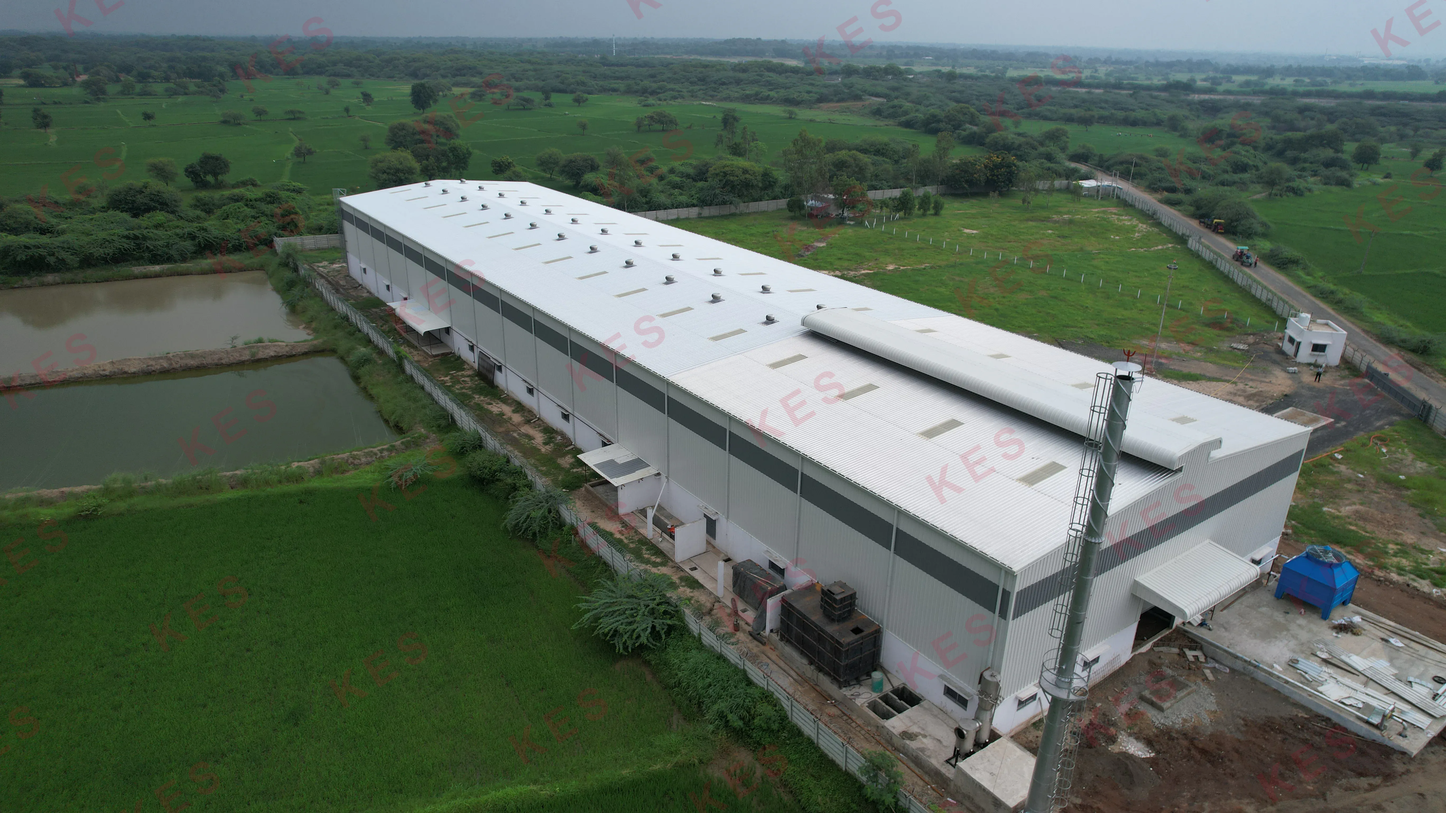
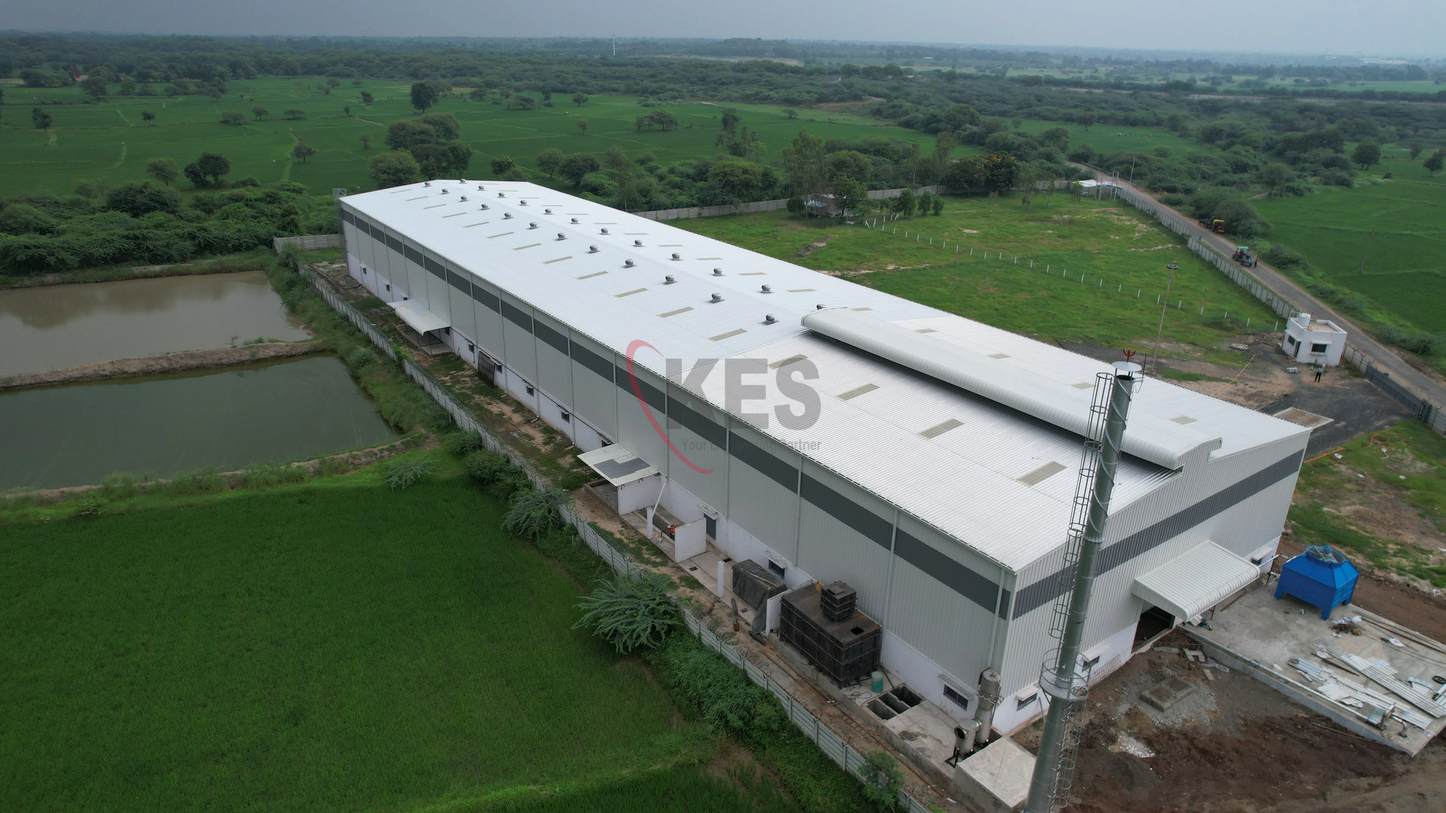
Add watermark image

diff --git a/services/service.js b/services/service.js
@@ -9,58 +9,47 @@ const __dirname = path.dirname(__filename);
 /** Project root (one level above /services) */
 const ROOT = path.resolve(__dirname, "..");
 const PROJECTS_DIR = path.join(ROOT, "public", "images", "projects");
+const LOGO_PATH = path.join(ROOT, "public", "kes_logo-transparent.png");
 
 const IMAGE_EXTENSIONS = new Set([".jpg", ".jpeg", ".png", ".webp", ".avif", ".tiff"]);
 
 /**
- * Build an SVG overlay with repeating diagonal "KES" watermarks.
+ * Prepare centered KES logo overlay for compositing.
  * @param {number} width
  * @param {number} height
- * @param {{ text?: string, opacity?: number }} [options]
+ * @param {{ logoPath?: string, opacity?: number, scale?: number }} [options]
  */
-function createWatermarkSvg(width, height, options = {}) {
-  const text = options.text ?? "KES";
-  const opacity = options.opacity ?? 0.12;
-  const fontSize = Math.max(22, Math.round(Math.min(width, height) * 0.055));
+async function createLogoWatermark(width, height, options = {}) {
+  const logoPath = options.logoPath ?? LOGO_PATH;
+  const opacity = options.opacity ?? 0.28;
+  const scale = options.scale ?? 0.32;
 
-  // Spacing between repeated marks (in rotated space)
-  const stepX = Math.round(fontSize * 5.5);
-  const stepY = Math.round(fontSize * 3.2);
+  const targetWidth = Math.max(120, Math.round(Math.min(width, height) * scale));
+  const alpha = Math.round(opacity * 255);
 
-  // Cover the full image after rotation — expand bounds so corners aren't empty
-  const diagonal = Math.ceil(Math.hypot(width, height));
-  const start = -diagonal;
-  const end = diagonal;
+  const logoBuffer = await sharp(logoPath)
+    .resize({ width: targetWidth, withoutEnlargement: false })
+    .ensureAlpha()
+    .composite([
+      {
+        input: Buffer.from([0, 0, 0, alpha]),
+        raw: { width: 1, height: 1, channels: 4 },
+        tile: true,
+        blend: "dest-in",
+      },
+    ])
+    .png()
+    .toBuffer();
 
-  const marks = [];
-  let row = 0;
-  for (let y = start; y <= end; y += stepY) {
-    const offsetX = row % 2 === 0 ? 0 : stepX / 2; // stagger alternate rows
-    for (let x = start + offsetX; x <= end; x += stepX) {
-      marks.push(
-        `<text class="wm" x="${x}" y="${y}" text-anchor="middle" dominant-baseline="middle">${text}</text>`
-      );
-    }
-    row += 1;
-  }
+  const logoMeta = await sharp(logoBuffer).metadata();
+  const logoWidth = logoMeta.width ?? targetWidth;
+  const logoHeight = logoMeta.height ?? targetWidth;
 
-  return Buffer.from(`
-    <svg width="${width}" height="${height}" xmlns="http://www.w3.org/2000/svg">
-      <style>
-        .wm {
-          fill: #C8102E;
-          fill-opacity: ${opacity};
-          font-family: Arial, Helvetica, sans-serif;
-          font-size: ${fontSize}px;
-          font-weight: 800;
-          letter-spacing: 0.18em;
-        }
-      </style>
-      <g transform="translate(${width / 2}, ${height / 2}) rotate(-32)">
-        ${marks.join("\n        ")}
-      </g>
-    </svg>
-  `);
+  return {
+    input: logoBuffer,
+    left: Math.round((width - logoWidth) / 2),
+    top: Math.round((height - logoHeight) / 2),
+  };
 }
 
 /**
@@ -81,8 +70,9 @@ function withWmkSuffix(inputPath) {
  * @param {string} inputPath Absolute or relative path to the image
  * @param {{
  *   outputPath?: string,
- *   text?: string,
+ *   logoPath?: string,
  *   opacity?: number,
+ *   scale?: number,
  * }} [options]
  * @returns {Promise<{ input: string, output: string, width: number, height: number }>}
  */
@@ -101,16 +91,16 @@ export async function watermarkImage(inputPath, options = {}) {
     throw new Error(`Could not read dimensions for: ${resolvedInput}`);
   }
 
-  const watermark = createWatermarkSvg(width, height, {
-    text: options.text,
+  const logoOverlay = await createLogoWatermark(width, height, {
+    logoPath: options.logoPath,
     opacity: options.opacity,
+    scale: options.scale,
   });
 
   // Same resolution — only re-encode smarter (strip metadata, higher effort).
-  // Metadata is dropped by default in sharp output, which also shrinks files.
   const pipeline = sharp(resolvedInput, { failOn: "none" })
-    .rotate() // apply EXIF orientation, then strip orientation tag
-    .composite([{ input: watermark, top: 0, left: 0 }]);
+    .rotate()
+    .composite([logoOverlay]);
 
   const ext = path.extname(outputPath).toLowerCase();
   let buffer;
@@ -167,8 +157,9 @@ export async function watermarkImage(inputPath, options = {}) {
  * Watermark every image in public/images/projects.
  * @param {{
  *   dir?: string,
- *   text?: string,
+ *   logoPath?: string,
  *   opacity?: number,
+ *   scale?: number,
  * }} [options]
  */
 export async function watermarkProjectsFolder(options = {}) {
@@ -203,8 +194,9 @@ export async function watermarkProjectsFolder(options = {}) {
   for (const file of files) {
     try {
       const result = await watermarkImage(file, {
-        text: options.text ?? "KES",
-        opacity: options.opacity ?? 0.12,
+        logoPath: options.logoPath,
+        opacity: options.opacity ?? 0.28,
+        scale: options.scale,
       });
       results.push(result);
       const saved = result.inputBytes - result.outputBytes;

diff --git a/src/components/Navbar.jsx b/src/components/Navbar.jsx
@@ -56,13 +56,13 @@ export default function Navbar({ onOpenLanding }) {
     >
       <div className="max-w-7xl mx-auto px-4 sm:px-6 lg:px-8">
         <div className="flex items-center justify-between">
-          {/* Logo */}
+          {/* Logo — larger visual size, fixed slot so navbar height stays the same */}
           <Link href="/">
-            <div className="flex items-center gap-2 cursor-pointer group">
+            <div className="relative h-14 w-44 cursor-pointer group overflow-visible">
               <img
                 src="/kes_logo.gif"
                 alt="KES Groups - Your Engineering Partner"
-                className="h-14 w-auto object-contain transition-transform duration-200 group-hover:scale-105"
+                className="absolute left-0 top-1/2 -translate-y-1/2 h-20 w-auto max-w-none object-contain transition-transform duration-200 group-hover:scale-105"
               />
             </div>
           </Link>
